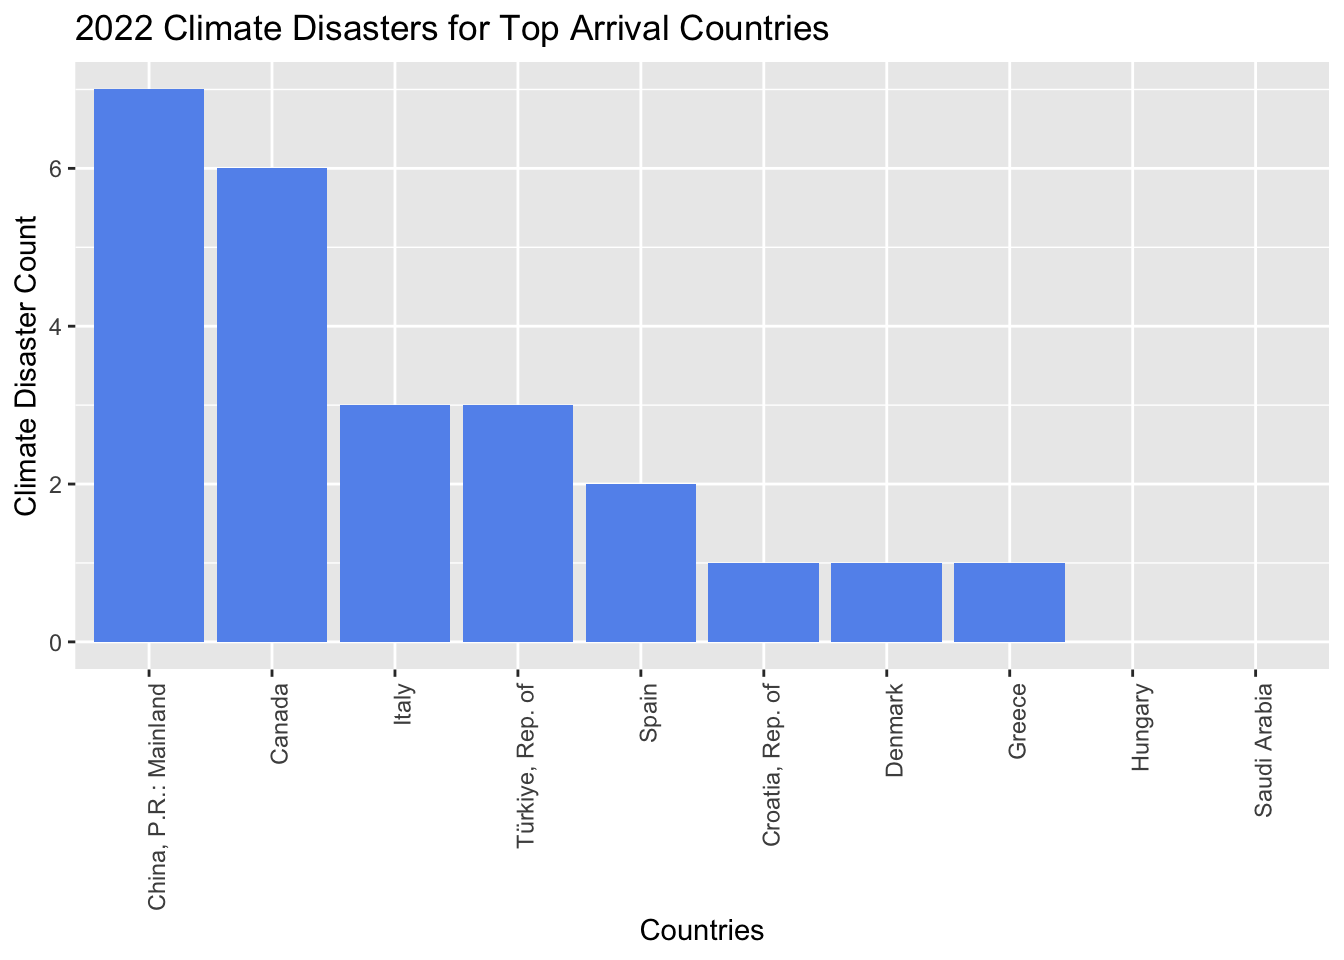
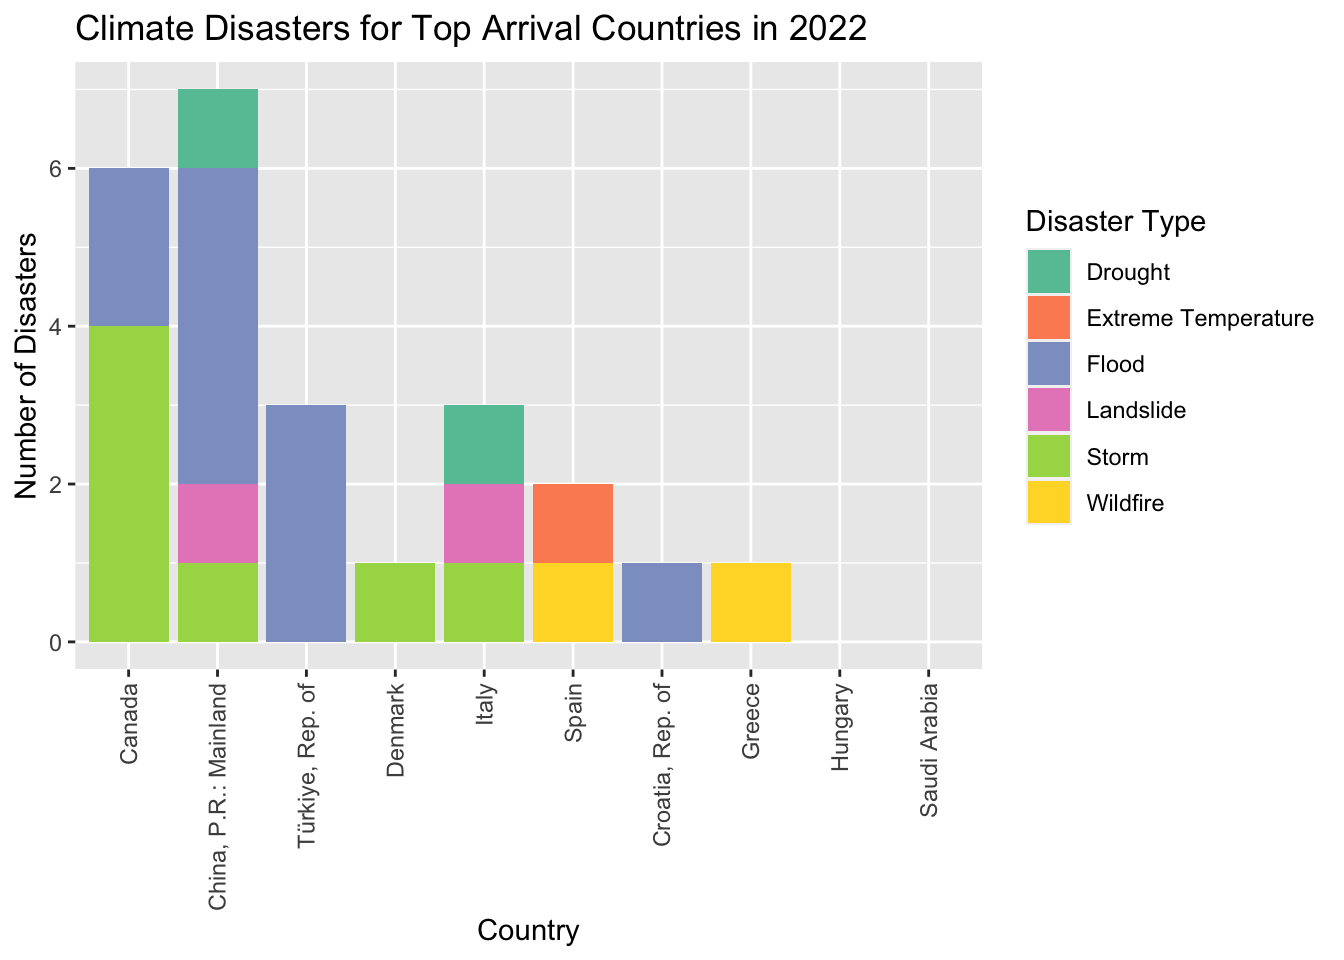
remove climate bar chart

diff --git a/docs/results.html b/docs/results.html
@@ -735,29 +735,16 @@ pre > code.sourceCode > span > a:first-child::before { text-decoration: underlin
 <span id="cb19-28"><a href="#cb19-28" aria-hidden="true" tabindex="-1"></a>  <span class="fu">count</span>(Country, <span class="at">wt =</span> Count) <span class="sc">%&gt;%</span></span>
 <span id="cb19-29"><a href="#cb19-29" aria-hidden="true" tabindex="-1"></a>  <span class="fu">top_n</span>(<span class="dv">10</span>, n)</span>
 <span id="cb19-30"><a href="#cb19-30" aria-hidden="true" tabindex="-1"></a></span>
-<span id="cb19-31"><a href="#cb19-31" aria-hidden="true" tabindex="-1"></a><span class="co">#Plot top 10 countries</span></span>
-<span id="cb19-32"><a href="#cb19-32" aria-hidden="true" tabindex="-1"></a>disasters_2022_total <span class="sc">%&gt;%</span></span>
-<span id="cb19-33"><a href="#cb19-33" aria-hidden="true" tabindex="-1"></a>  <span class="fu">ggplot</span>(<span class="fu">aes</span>(<span class="at">x=</span><span class="fu">reorder</span>(Country, <span class="sc">-</span>n),<span class="at">y=</span>n)) <span class="sc">+</span></span>
-<span id="cb19-34"><a href="#cb19-34" aria-hidden="true" tabindex="-1"></a>  <span class="fu">geom_bar</span>(<span class="at">stat =</span> <span class="st">"identity"</span>,<span class="at">fill =</span> <span class="st">"cornflowerblue"</span>) <span class="sc">+</span></span>
-<span id="cb19-35"><a href="#cb19-35" aria-hidden="true" tabindex="-1"></a>  <span class="fu">ggtitle</span>(<span class="st">"2022 Climate Disasters for Top Arrival Countries"</span>) <span class="sc">+</span></span>
-<span id="cb19-36"><a href="#cb19-36" aria-hidden="true" tabindex="-1"></a>  <span class="fu">xlab</span>(<span class="st">"Countries"</span>) <span class="sc">+</span></span>
-<span id="cb19-37"><a href="#cb19-37" aria-hidden="true" tabindex="-1"></a>  <span class="fu">ylab</span>(<span class="st">"Climate Disaster Count"</span>) <span class="sc">+</span></span>
-<span id="cb19-38"><a href="#cb19-38" aria-hidden="true" tabindex="-1"></a>  <span class="fu">theme</span>(<span class="at">axis.text.x =</span> <span class="fu">element_text</span>(<span class="at">angle=</span><span class="dv">90</span>, <span class="at">vjust =</span> <span class="fl">0.95</span>, <span class="at">hjust =</span> <span class="dv">1</span>))</span></code><button title="Copy to Clipboard" class="code-copy-button"><i class="bi"></i></button></pre></div>
+<span id="cb19-31"><a href="#cb19-31" aria-hidden="true" tabindex="-1"></a></span>
+<span id="cb19-32"><a href="#cb19-32" aria-hidden="true" tabindex="-1"></a><span class="co">#Stacked Bar Chart to break down disaster type</span></span>
+<span id="cb19-33"><a href="#cb19-33" aria-hidden="true" tabindex="-1"></a><span class="fu">ggplot</span>(disasters_top10_2022, <span class="fu">aes</span>(<span class="at">x =</span> <span class="fu">reorder</span>(Country, <span class="sc">-</span>Count), <span class="at">y =</span> Count, <span class="at">fill =</span> event_type)) <span class="sc">+</span></span>
+<span id="cb19-34"><a href="#cb19-34" aria-hidden="true" tabindex="-1"></a>  <span class="fu">geom_bar</span>(<span class="at">stat =</span> <span class="st">"identity"</span>) <span class="sc">+</span></span>
+<span id="cb19-35"><a href="#cb19-35" aria-hidden="true" tabindex="-1"></a>  <span class="fu">labs</span>(<span class="at">title =</span> <span class="st">"Climate Disasters for Top Arrival Countries in 2022"</span>, <span class="at">x =</span> <span class="st">"Country"</span>, <span class="at">y =</span> <span class="st">"Number of Disasters"</span>, <span class="at">fill =</span> <span class="st">"Disaster Type"</span>) <span class="sc">+</span></span>
+<span id="cb19-36"><a href="#cb19-36" aria-hidden="true" tabindex="-1"></a>  <span class="fu">theme</span>(<span class="at">axis.text.x =</span> <span class="fu">element_text</span>(<span class="at">angle=</span><span class="dv">90</span>, <span class="at">vjust =</span> <span class="fl">0.5</span>, <span class="at">hjust =</span> <span class="dv">1</span>)) <span class="sc">+</span></span>
+<span id="cb19-37"><a href="#cb19-37" aria-hidden="true" tabindex="-1"></a>  <span class="fu">scale_fill_manual</span>(<span class="at">values =</span> color_palette)</span></code><button title="Copy to Clipboard" class="code-copy-button"><i class="bi"></i></button></pre></div>
 </details>
 <div class="cell-output-display">
 <p><img src="results_files/figure-html/unnamed-chunk-15-1.png" class="img-fluid" width="672"></p>
-</div>
-<details>
-<summary>Code</summary>
-<div class="sourceCode cell-code" id="cb20"><pre class="sourceCode r code-with-copy"><code class="sourceCode r"><span id="cb20-1"><a href="#cb20-1" aria-hidden="true" tabindex="-1"></a><span class="co">#Stacked Bar Chart to break down disaster type</span></span>
-<span id="cb20-2"><a href="#cb20-2" aria-hidden="true" tabindex="-1"></a><span class="fu">ggplot</span>(disasters_top10_2022, <span class="fu">aes</span>(<span class="at">x =</span> <span class="fu">reorder</span>(Country, <span class="sc">-</span>Count), <span class="at">y =</span> Count, <span class="at">fill =</span> event_type)) <span class="sc">+</span></span>
-<span id="cb20-3"><a href="#cb20-3" aria-hidden="true" tabindex="-1"></a>  <span class="fu">geom_bar</span>(<span class="at">stat =</span> <span class="st">"identity"</span>) <span class="sc">+</span></span>
-<span id="cb20-4"><a href="#cb20-4" aria-hidden="true" tabindex="-1"></a>  <span class="fu">labs</span>(<span class="at">title =</span> <span class="st">"Climate Disasters for Top Arrival Countries in 2022"</span>, <span class="at">x =</span> <span class="st">"Country"</span>, <span class="at">y =</span> <span class="st">"Number of Disasters"</span>, <span class="at">fill =</span> <span class="st">"Disaster Type"</span>) <span class="sc">+</span></span>
-<span id="cb20-5"><a href="#cb20-5" aria-hidden="true" tabindex="-1"></a>  <span class="fu">theme</span>(<span class="at">axis.text.x =</span> <span class="fu">element_text</span>(<span class="at">angle=</span><span class="dv">90</span>, <span class="at">vjust =</span> <span class="fl">0.5</span>, <span class="at">hjust =</span> <span class="dv">1</span>)) <span class="sc">+</span></span>
-<span id="cb20-6"><a href="#cb20-6" aria-hidden="true" tabindex="-1"></a>  <span class="fu">scale_fill_manual</span>(<span class="at">values =</span> color_palette)</span></code><button title="Copy to Clipboard" class="code-copy-button"><i class="bi"></i></button></pre></div>
-</details>
-<div class="cell-output-display">
-<p><img src="results_files/figure-html/unnamed-chunk-15-2.png" class="img-fluid" width="672"></p>
 </div>
 </div>
 <p>Looking specifically at the top visited countries, we can see that the country with the most climate disasters in 2022 was China with seven disasters, followed by Canada with six. These are the two largest countries by area of our top ten, so it makes sense that they would have the most climate disasters by their sheer size. Every other country had three or less climate disasters in 2022. The most common disasters in the top visited countries were storms and floods. Two countries, Hungary and Saudi Arabia, did not report any climate disasters in 2022. Further, three of the top visited countries only had one climate disaster in 2022. Clearly, the countries that most tourists visit are not risky countries when it comes to climate change.</p>
@@ -768,9 +755,9 @@ pre > code.sourceCode > span > a:first-child::before { text-decoration: underlin
 <div class="cell">
 <details>
 <summary>Code</summary>
-<div class="sourceCode cell-code" id="cb21"><pre class="sourceCode r code-with-copy"><code class="sourceCode r"><span id="cb21-1"><a href="#cb21-1" aria-hidden="true" tabindex="-1"></a>happiness_df <span class="ot">&lt;-</span> <span class="fu">read_excel</span>(<span class="st">"data_raw/DataForFigure2.1WHR2023.xls"</span>)</span>
-<span id="cb21-2"><a href="#cb21-2" aria-hidden="true" tabindex="-1"></a></span>
-<span id="cb21-3"><a href="#cb21-3" aria-hidden="true" tabindex="-1"></a>happiness_df<span class="ot">&lt;-</span><span class="fu">as.data.frame</span>(happiness_df)</span></code><button title="Copy to Clipboard" class="code-copy-button"><i class="bi"></i></button></pre></div>
+<div class="sourceCode cell-code" id="cb20"><pre class="sourceCode r code-with-copy"><code class="sourceCode r"><span id="cb20-1"><a href="#cb20-1" aria-hidden="true" tabindex="-1"></a>happiness_df <span class="ot">&lt;-</span> <span class="fu">read_excel</span>(<span class="st">"data_raw/DataForFigure2.1WHR2023.xls"</span>)</span>
+<span id="cb20-2"><a href="#cb20-2" aria-hidden="true" tabindex="-1"></a></span>
+<span id="cb20-3"><a href="#cb20-3" aria-hidden="true" tabindex="-1"></a>happiness_df<span class="ot">&lt;-</span><span class="fu">as.data.frame</span>(happiness_df)</span></code><button title="Copy to Clipboard" class="code-copy-button"><i class="bi"></i></button></pre></div>
 </details>
 </div>
 <section id="happiness-indicators-in-top-10-visited-countries" class="level3" data-number="3.4.1">
@@ -778,15 +765,10 @@ pre > code.sourceCode > span > a:first-child::before { text-decoration: underlin
 <div class="cell">
 <details>
 <summary>Code</summary>
-<div class="sourceCode cell-code" id="cb22"><pre class="sourceCode r code-with-copy"><code class="sourceCode r"><span id="cb22-1"><a href="#cb22-1" aria-hidden="true" tabindex="-1"></a>GGally<span class="sc">::</span><span class="fu">ggparcoord</span>(<span class="at">data=</span>happiness_df,<span class="at">columns =</span> <span class="dv">6</span><span class="sc">:</span><span class="dv">11</span>, <span class="at">scale=</span><span class="st">"std"</span>, <span class="at">alphaLines =</span> <span class="fl">0.5</span>)<span class="sc">+</span></span>
-<span id="cb22-2"><a href="#cb22-2" aria-hidden="true" tabindex="-1"></a>  <span class="fu">labs</span>(<span class="at">title =</span> <span class="st">"Happiness indicators in all countries"</span>, <span class="at">x =</span> <span class="st">"Indicators"</span>, <span class="at">y =</span> <span class="st">"Value"</span>)<span class="sc">+</span></span>
-<span id="cb22-3"><a href="#cb22-3" aria-hidden="true" tabindex="-1"></a>  <span class="fu">theme</span>(<span class="at">axis.text.x =</span> <span class="fu">element_text</span>(<span class="at">angle =</span> <span class="dv">45</span>, <span class="at">hjust =</span> <span class="dv">1</span>))</span></code><button title="Copy to Clipboard" class="code-copy-button"><i class="bi"></i></button></pre></div>
+<div class="sourceCode cell-code" id="cb21"><pre class="sourceCode r code-with-copy"><code class="sourceCode r"><span id="cb21-1"><a href="#cb21-1" aria-hidden="true" tabindex="-1"></a><span class="fu">suppressMessages</span>(GGally<span class="sc">::</span><span class="fu">ggparcoord</span>(<span class="at">data=</span>happiness_df,<span class="at">columns =</span> <span class="dv">6</span><span class="sc">:</span><span class="dv">11</span>, <span class="at">scale=</span><span class="st">"std"</span>, <span class="at">alphaLines =</span> <span class="fl">0.5</span>)<span class="sc">+</span></span>
+<span id="cb21-2"><a href="#cb21-2" aria-hidden="true" tabindex="-1"></a>  <span class="fu">labs</span>(<span class="at">title =</span> <span class="st">"Happiness indicators in all countries"</span>, <span class="at">x =</span> <span class="st">"Indicators"</span>, <span class="at">y =</span> <span class="st">"Value"</span>)<span class="sc">+</span></span>
+<span id="cb21-3"><a href="#cb21-3" aria-hidden="true" tabindex="-1"></a>  <span class="fu">theme</span>(<span class="at">axis.text.x =</span> <span class="fu">element_text</span>(<span class="at">angle =</span> <span class="dv">45</span>, <span class="at">hjust =</span> <span class="dv">1</span>)))</span></code><button title="Copy to Clipboard" class="code-copy-button"><i class="bi"></i></button></pre></div>
 </details>
-<div class="cell-output cell-output-stderr">
-<pre><code>Registered S3 method overwritten by 'GGally':
-  method from   
-  +.gg   ggplot2</code></pre>
-</div>
 <div class="cell-output-display">
 <p><img src="results_files/figure-html/unnamed-chunk-17-1.png" class="img-fluid" width="672"></p>
 </div>
@@ -795,18 +777,18 @@ pre > code.sourceCode > span > a:first-child::before { text-decoration: underlin
 <div class="cell">
 <details>
 <summary>Code</summary>
-<div class="sourceCode cell-code" id="cb24"><pre class="sourceCode r code-with-copy"><code class="sourceCode r"><span id="cb24-1"><a href="#cb24-1" aria-hidden="true" tabindex="-1"></a>top_ten_arrivals <span class="ot">&lt;-</span> <span class="fu">c</span>(<span class="st">"Spain"</span>,<span class="st">"Italy"</span>,<span class="st">"Turkey"</span>,<span class="st">"Croatia"</span>,<span class="st">"Hungary"</span>,<span class="st">"Denmark"</span>,<span class="st">"Greece"</span>,<span class="st">"China"</span>,<span class="st">"Canada"</span>,<span class="st">"Saudi Arabia"</span>)</span>
-<span id="cb24-2"><a href="#cb24-2" aria-hidden="true" tabindex="-1"></a></span>
-<span id="cb24-3"><a href="#cb24-3" aria-hidden="true" tabindex="-1"></a>happiness_df <span class="ot">&lt;-</span> happiness_df <span class="sc">%&gt;%</span></span>
-<span id="cb24-4"><a href="#cb24-4" aria-hidden="true" tabindex="-1"></a>  <span class="fu">rename</span>(<span class="at">Country_name =</span> <span class="st">`</span><span class="at">Country name</span><span class="st">`</span>)</span>
-<span id="cb24-5"><a href="#cb24-5" aria-hidden="true" tabindex="-1"></a></span>
-<span id="cb24-6"><a href="#cb24-6" aria-hidden="true" tabindex="-1"></a>happy_ten <span class="ot">&lt;-</span> <span class="fu">subset</span>(happiness_df, Country_name <span class="sc">%in%</span> top_ten_arrivals)</span>
-<span id="cb24-7"><a href="#cb24-7" aria-hidden="true" tabindex="-1"></a></span>
-<span id="cb24-8"><a href="#cb24-8" aria-hidden="true" tabindex="-1"></a><span class="fu">library</span>(redav)</span>
-<span id="cb24-9"><a href="#cb24-9" aria-hidden="true" tabindex="-1"></a>happiness_data <span class="ot">&lt;-</span> happy_ten[,<span class="fu">c</span>(<span class="dv">1</span>,<span class="dv">6</span><span class="sc">:</span><span class="dv">11</span>)]</span>
-<span id="cb24-10"><a href="#cb24-10" aria-hidden="true" tabindex="-1"></a>happiness_data <span class="ot">&lt;-</span> <span class="fu">na.omit</span>(happiness_data)</span>
-<span id="cb24-11"><a href="#cb24-11" aria-hidden="true" tabindex="-1"></a><span class="fu">draw_biplot</span>(happiness_data)<span class="sc">+</span></span>
-<span id="cb24-12"><a href="#cb24-12" aria-hidden="true" tabindex="-1"></a>  <span class="fu">labs</span>(<span class="at">title =</span> <span class="st">"Happiness Indicators in Most Visited Countries"</span>)</span></code><button title="Copy to Clipboard" class="code-copy-button"><i class="bi"></i></button></pre></div>
+<div class="sourceCode cell-code" id="cb22"><pre class="sourceCode r code-with-copy"><code class="sourceCode r"><span id="cb22-1"><a href="#cb22-1" aria-hidden="true" tabindex="-1"></a>top_ten_arrivals <span class="ot">&lt;-</span> <span class="fu">c</span>(<span class="st">"Spain"</span>,<span class="st">"Italy"</span>,<span class="st">"Turkey"</span>,<span class="st">"Croatia"</span>,<span class="st">"Hungary"</span>,<span class="st">"Denmark"</span>,<span class="st">"Greece"</span>,<span class="st">"China"</span>,<span class="st">"Canada"</span>,<span class="st">"Saudi Arabia"</span>)</span>
+<span id="cb22-2"><a href="#cb22-2" aria-hidden="true" tabindex="-1"></a></span>
+<span id="cb22-3"><a href="#cb22-3" aria-hidden="true" tabindex="-1"></a>happiness_df <span class="ot">&lt;-</span> happiness_df <span class="sc">%&gt;%</span></span>
+<span id="cb22-4"><a href="#cb22-4" aria-hidden="true" tabindex="-1"></a>  <span class="fu">rename</span>(<span class="at">Country_name =</span> <span class="st">`</span><span class="at">Country name</span><span class="st">`</span>)</span>
+<span id="cb22-5"><a href="#cb22-5" aria-hidden="true" tabindex="-1"></a></span>
+<span id="cb22-6"><a href="#cb22-6" aria-hidden="true" tabindex="-1"></a>happy_ten <span class="ot">&lt;-</span> <span class="fu">subset</span>(happiness_df, Country_name <span class="sc">%in%</span> top_ten_arrivals)</span>
+<span id="cb22-7"><a href="#cb22-7" aria-hidden="true" tabindex="-1"></a></span>
+<span id="cb22-8"><a href="#cb22-8" aria-hidden="true" tabindex="-1"></a><span class="fu">library</span>(redav)</span>
+<span id="cb22-9"><a href="#cb22-9" aria-hidden="true" tabindex="-1"></a>happiness_data <span class="ot">&lt;-</span> happy_ten[,<span class="fu">c</span>(<span class="dv">1</span>,<span class="dv">6</span><span class="sc">:</span><span class="dv">11</span>)]</span>
+<span id="cb22-10"><a href="#cb22-10" aria-hidden="true" tabindex="-1"></a>happiness_data <span class="ot">&lt;-</span> <span class="fu">na.omit</span>(happiness_data)</span>
+<span id="cb22-11"><a href="#cb22-11" aria-hidden="true" tabindex="-1"></a><span class="fu">draw_biplot</span>(happiness_data)<span class="sc">+</span></span>
+<span id="cb22-12"><a href="#cb22-12" aria-hidden="true" tabindex="-1"></a>  <span class="fu">labs</span>(<span class="at">title =</span> <span class="st">"Happiness Indicators in Most Visited Countries"</span>)</span></code><button title="Copy to Clipboard" class="code-copy-button"><i class="bi"></i></button></pre></div>
 </details>
 <div class="cell-output-display">
 <p><img src="results_files/figure-html/unnamed-chunk-18-1.png" class="img-fluid" width="672"></p>
